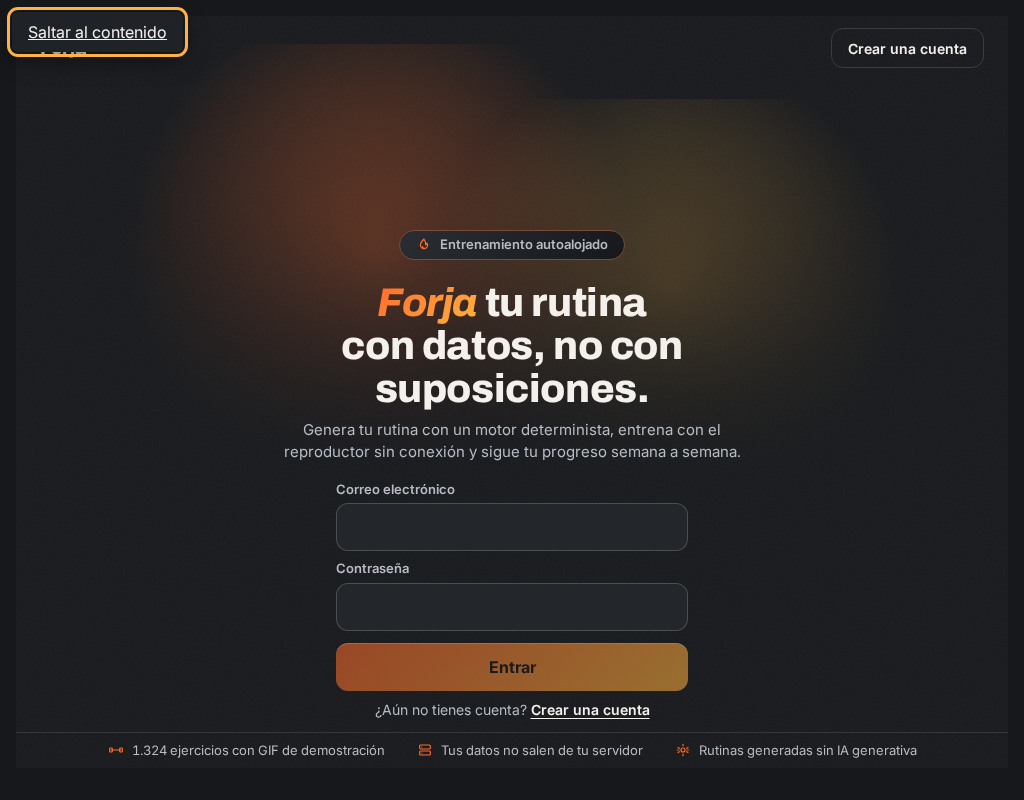
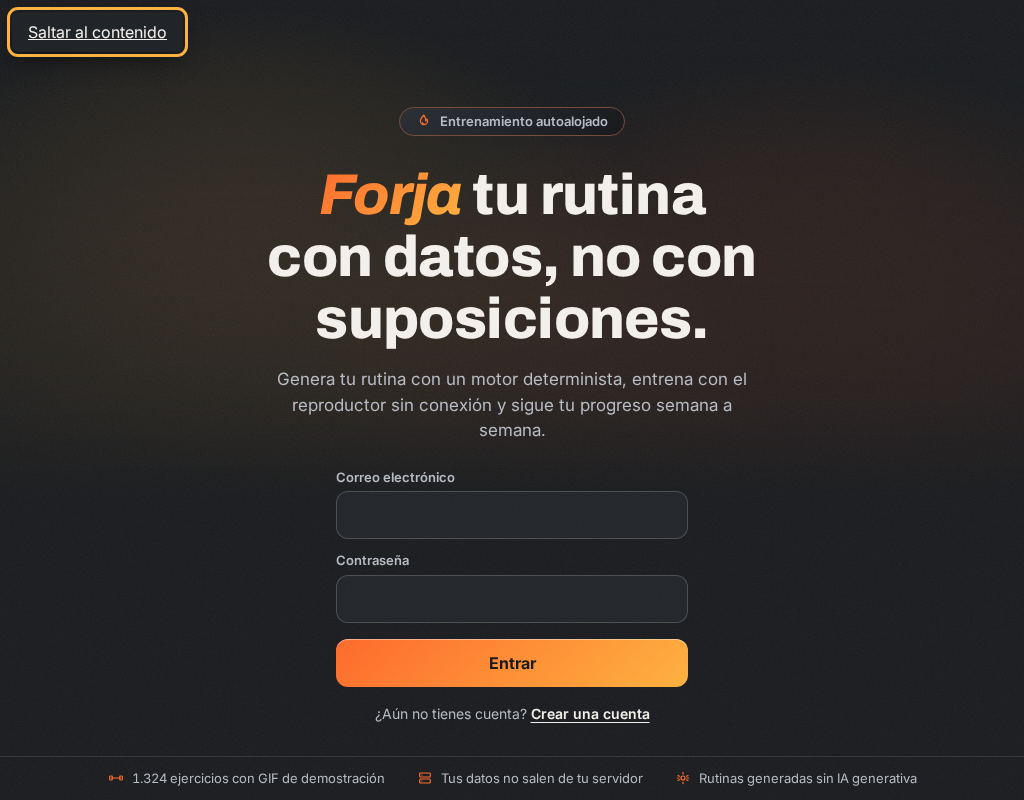
docs(auth): refresh login screenshots and add f5-login-polish handoff
Replace docs/screenshots/f5/login/ with screenshots taken after the
glow/full-bleed/CTA fixes (1920x1080, 1440x900, 1280x720, 390x844,
skip-link keyboard-focus); drop the mid-animation shot, which never
proved the entrance choreography in headless Chromium (documented in
f5-login-landing.md) and is now redundant with the settled-state
shots. Add docs/handoffs/f5-login-polish.md and a TASKS.md row
(F5-FE-03) for this pass.

Claude-Session: https://claude.ai/code/session_016UkH81CUPtFeFobjAqoEnV

diff --git a/docs/handoffs/f5-login-polish.md b/docs/handoffs/f5-login-polish.md
@@ -1,0 +1,252 @@
+# Handoff — Fase 5 · frontend-ui (f5/login-polish)
+
+## Resumen
+El orquestador revisó `docs/screenshots/f5/login/login-1440x900.png`, `login-390x844.png` y
+`login-1280x720.png` (capturas de `f5-login-landing.md`) y encontró cuatro defectos en la landing
+de acceso (`LoginScreen.tsx`, única pantalla «momento cero» de esta app autoalojada). Los cuatro
+quedan corregidos:
+
+1. **Cortes rectos en el resplandor de fondo.** `.glow` pintaba un `radial-gradient(circle, …)`
+   sin sizing explícito (por tanto `farthest-corner`) dentro de un `background-size` **menor**
+   que su propio contenedor (62%/58%). En una caja no cuadrada y descentrada eso deja alfa > 0 en
+   algunas esquinas antes de llegar al borde de ese *tile*; justo donde el *tile* termina
+   (`background-repeat: no-repeat`) se veía un corte recto — y, al ser un porcentaje fijo, el
+   punto exacto donde ocurre depende de la proporción del viewport, así que aparecía en sitios
+   distintos según el tamaño. Solución: las tres capas de fondo (`.glow`/`.scrim`/`.grain`) pasan
+   a `position: fixed; inset: 0` (cubren el viewport completo, no la caja de `.hero`) y el
+   resplandor usa un `background-size` **mayor** que el propio viewport (180%/168%) — así, en
+   cualquier punto de la deriva (`background-position`), la imagen sobresale del viewport por los
+   cuatro lados y el borde de su propio degradado queda siempre fuera de la pantalla, sea cual sea
+   el tamaño o la proporción del viewport (no depende de una cifra ajustada a un solo tamaño).
+2. **La landing quedaba encajonada.** Se renderizaba dentro de `.main` (`RootLayout.module.css`):
+   padding + `max-width: 72rem` pensados para convivir con `AppNav`, que `/login` nunca monta. El
+   agente anterior lo sabía (lo documentó en `f5-login-landing.md`) pero no podía tocar
+   `RootLayout` (fuera de su zona); compensaba con hacks en `LoginScreen.module.css` (`margin-left`
+   negativo + `min-height: calc(100dvh - …)` con dos cortes distintos a cada lado de 1024px). Esta
+   tarea sí puede tocar `RootLayout`: ahora es consciente de la ruta (`isFullBleedPath`) y `/login`
+   recibe un contenedor sin padding/ancho máximo — los hacks de compensación en `LoginScreen`
+   desaparecen porque ya no hay nada que cancelar.
+3. **«Entrar» parecía muerto al llegar.** `disabled={busy || email === "" || password === ""}` +
+   `.submit:disabled { opacity: 0.55 }` apagaban el degradado brasa del CTA principal de la
+   landing nada más cargar (campos siempre vacíos en la primera visita). Ahora el botón solo se
+   deshabilita mientras `busy` (el `required` nativo de los campos + los mensajes de error ya
+   existentes cubren el envío con campos vacíos, como pedía el encargo) y, mientras se envía,
+   cambia de texto (`auth.submitting`, «Entrando…»/«Signing in…», ya existía en `strings.ts`) en
+   vez de atenuar el degradado — el estado deshabilitado pasa a una superficie plana neutra
+   (`--color-surface-2` + texto apagado, sin degradado ni `opacity`).
+4. **«Crear una cuenta» aparecía dos veces en el mismo viewport.** Enlace fantasma en la barra
+   superior + enlace bajo el formulario. Se retira el de la barra superior (que ahora solo lleva
+   la marca «Forja») y se mantiene el inline — ver «Decisiones» por qué.
+
+## Ficheros tocados
+- `frontend/src/features/auth/LoginScreen.tsx` — quita el `<Link>` «Crear una cuenta» de
+  `.topbar` (solo queda el `<p className={styles.wordmark}>`); `disabled={busy}` en el botón de
+  envío (antes `busy || email === "" || password === ""}`). Ningún otro cambio de JSX.
+- `frontend/src/features/auth/LoginScreen.module.css` — reescrito el bloque de fondo (`.hero`,
+  `.glow`/`.scrim`/`.grain`, ver «Decisiones»); `.topbar` sin `justify-content: space-between`/
+  `gap` (un único hijo); `.ghostLink`/`.ghostLink:hover` eliminadas (ya no se usan);
+  `.submit:disabled` reescrita (superficie plana, sin `opacity`); la media query de escritorio
+  con poca altura pasa de dos cortes (901–1023px / ≥1024px) a uno solo (`min-width: 901px` +
+  `max-height: 780px`), ya innecesaria la asimetría porque `.main` ya no aporta padding a esta
+  ruta. El `@import` de la itálica y el resto de la pantalla (insignia, titular, campos,
+  estadísticas) no se han tocado.
+- `frontend/src/features/auth/session.ts` — añadido `FULL_BLEED_PATHS`/`isFullBleedPath`, mismo
+  patrón que `PUBLIC_PATHS`/`isPublicPath` ya existentes.
+- `frontend/src/routes/RootLayout.tsx` — `<main>` usa `styles.fullBleed` en vez de `styles.main`
+  cuando `isFullBleedPath(pathname)`; import de `isFullBleedPath` añadido. Resto sin cambios.
+- `frontend/src/routes/RootLayout.module.css` — nueva regla `.fullBleed` (`padding: 0; max-width:
+  none; margin-inline: 0`). `.main` no se toca (ninguna pantalla autenticada cambia).
+- `frontend/tests/routes/RootLayout.test.tsx` — nueva ruta `/login` en `buildRouter`; nuevo test
+  que confirma que `/login` usa `styles.fullBleed` (y no `styles.main`) y no monta `<AppNav>`;
+  assertion añadida al test existente de `/` confirmando que sigue usando `styles.main`.
+- `frontend/tests/features/loginLanding.test.tsx` — el test que exigía **dos** enlaces «Crear una
+  cuenta» ahora exige **uno solo** (el inline, con `href="/onboarding"`); nuevo test que confirma
+  que «Entrar» no está deshabilitado con los campos vacíos.
+- `docs/screenshots/f5/login/` — las cinco capturas sustituidas (mismo nombre de fichero:
+  `login-1920x1080.png`, `login-1440x900.png`, `login-1280x720.png`, `login-390x844.png`,
+  `login-1024-skiplink-focus.png`); `login-1440x900-mid-animation.png` eliminada (ya documentada
+  como no probatoria en `f5-login-landing.md` — Chromium headless sin compositor visible renderiza
+  el estado final, no una interpolación a medias).
+- `docs/TASKS.md` — fila `F5-FE-03` añadida en Fase 4 · Cierre, a continuación de `F5-FE-01`.
+- `docs/handoffs/f5-login-polish.md` — este documento.
+
+No se ha tocado `frontend/src/features/today/`, `frontend/src/features/shared/ui.module.css` ni
+`frontend/src/components/ui/ui.module.css` (zona del agente en paralelo). No se ha añadido ninguna
+dependencia npm ni ningún hex nuevo en `tokens.css` (se sigue usando solo `color-mix()` sobre
+tokens existentes, igual que en `f5-login-landing.md`).
+
+## Decisiones
+- **Capas de fondo a `position: fixed` con `background-size` mayor que el viewport, en vez de
+  ajustar el porcentaje de `transparent NN%` dentro de la caja pequeña.** Se consideró primero
+  solo bajar el *stop* del degradado (de `68%` a algo más conservador) manteniendo el `.glow`
+  acotado a la caja de `.hero`. Se descartó: la caja no es cuadrada y su proporción cambia con
+  cada viewport pedido (1920×1080, 1440×900, 1280×720, 390×844); un *stop* que deja alfa 0 en las
+  cuatro esquinas de una caja ancha (escritorio) puede no bastar para una caja estrecha y alta
+  (móvil), y el borde real de un `radial-gradient(circle, …)` no es solo las cuatro esquinas sino
+  todo el perímetro (el punto más cercano de un lado al centro puede estar más cerca que ambas
+  esquinas de ese lado). Ajustar un porcentaje fijo para que funcione en las cuatro proporciones
+  pedidas a la vez es fràgil y exactamente el tipo de ajuste que ya había fallado una vez. La
+  solución elegida es independiente de la proporción del viewport por construcción: con
+  `background-size` mayor que el 100% en ambos ejes (180%/168%) y el `background-position` de la
+  deriva siempre alejado de los extremos 0%/100% (14–21% y 80–88%, igual que antes), la imagen
+  sobresale del viewport por los cuatro lados en todo el rango de la animación — el borde del
+  propio degradado (donde antes se veía el corte) queda siempre fuera de la pantalla, sin
+  necesidad de calcular el *stop* exacto para cada proporción. Verificado visualmente en las
+  cuatro capturas pedidas (1920×1080, 1440×900, 1280×720, 390×844): sin ningún corte recto.
+  `.scrim` y `.grain` pasan al mismo esquema (`position: fixed; inset: 0`) por consistencia — no
+  tenían el problema del *tile* (`.scrim` ya pintaba a tamaño completo del contenedor; `.grain` es
+  un patrón repetido, sin borde propio) pero mezclar un esquema de posicionamiento por capa habría
+  sido más confuso que ganancia.
+- **`z-index` explícito y bajo en vez de depender del orden de pintado.** El agente anterior evitó
+  `position`/`opacity`/`filter`/`transform` en las capas de fondo precisamente para que
+  `position: static` las mantuviera detrás de cualquier elemento posicionado (el enlace «saltar al
+  contenido» de `RootLayout`, z-index 100 en `global.css`) sin tener que gestionar z-index. El
+  encargo de esta tarea autoriza explícitamente `position: fixed`/`absolute` con z-index bajo y
+  explícito, así que se usa ese camino: `.glow`/`.scrim`/`.grain` → `z-index: 0`; `.topbar`/
+  `.heroMid`/`.stats` (contenido) ya tenían `z-index: 1` de la versión anterior (no ha hecho falta
+  subirlo). Verificado con una captura de teclado (`login-1024-skiplink-focus.png`): el enlace
+  sigue perfectamente visible y por encima de las capas de fondo tras enfocarlo con Tab.
+- **`RootLayout` consciente de la ruta (`isFullBleedPath`) en vez de seguir compensando desde
+  `LoginScreen.module.css`.** Ahora que `RootLayout.tsx`/`.module.css` están dentro de la zona de
+  esta tarea, la corrección correcta es que el shell no le dé a `/login` un padding que de todas
+  formas no necesita (en vez de que `/login` cancele ese padding con matemática de `margin-left`
+  negativo atada a los mismos *breakpoints* que `.main`, que era lo único posible en la tarea
+  anterior). Con `.fullBleed` (`padding: 0; max-width: none; margin-inline: 0`) aplicado por
+  `RootLayout` cuando `isFullBleedPath(pathname)`, `.hero` en `LoginScreen.module.css` vuelve a
+  ser un simple `min-height: 100dvh` sin ningún cálculo — los hacks de la tarea anterior
+  desaparecen porque ya no hay nada que cancelar.
+- **`/onboarding` se queda con `.main` (no entra en `isFullBleedPath`).** El encargo decía
+  «`/onboarding` solo si queda bien». Se miró `OnboardingScreen.tsx`/`Onboarding.module.css`: es
+  un asistente de formulario de 4 pasos con `.root { max-width: 40rem; margin: 0 auto; }` que
+  reutiliza `Button`/`TextField`/`Chip`/`ChoiceCard` de `components/ui` — depende del padding de
+  `.main` para su respiro (arriba, a los lados y para el rail de escritorio); no es un hero de un
+  único viewport como `/login`. Quitarle ese padding dejaría el contenido pegado a los bordes del
+  viewport sin ganar nada (no es una pantalla de «un solo golpe de vista» como la landing). Por
+  eso `FULL_BLEED_PATHS = ["/login"]` (subconjunto de `PUBLIC_PATHS`, que sigue incluyendo
+  `/onboarding` para `AppNav`/`AuthGate`) y `.main` no cambia en absoluto.
+- **Único disparador de `:disabled` = `busy`; sin nuevo copy.** `auth.submitting` («Entrando…»/
+  «Signing in…») ya existía en `strings.ts` y ya estaba cableado en el JSX
+  (`{busy ? t("auth.submitting") : t("auth.submit")}`) desde `f5-login-landing.md` — no hacía
+  falta ninguna clave nueva, solo quitar la condición de campos vacíos del `disabled` y reescribir
+  `.submit:disabled` (superficie plana `--color-surface-2` + `--color-text-muted`, sin `opacity`
+  ni degradado, `cursor: progress`). El formulario ya tiene `required` nativo en ambos campos
+  (`GlassField`) y el `submit` del navegador no dispara con campos vacíos/no válidos antes de que
+  `onSubmit` (y por tanto `submit()`) se ejecute — `event.preventDefault()` dentro del handler solo
+  evita la navegación por defecto, no salta la validación nativa, que ocurre antes de que el
+  evento `submit` llegue a dispararse. El envío con campos vacíos sigue, por tanto, sin poder
+  llegar nunca a `POST /auth/login`.
+- **Se mantiene el enlace inline, se retira el de la barra superior.** El inline
+  («¿Aún no tienes cuenta? Crear una cuenta», bajo el formulario) es el que responde al momento
+  exacto en que alguien se hace esa pregunta — después de ver el formulario, no antes — sin que la
+  mirada tenga que saltar a la esquina superior. Con él fuera, la barra superior queda solo con la
+  marca «Forja», más silenciosa (un único acento deliberado, coherente con el principio ya fijado
+  en `f5-login-landing.md` de que esta pantalla tiene «un único momento de entrada»). Se ha
+  simplificado `.topbar` en consecuencia (sin `justify-content: space-between`/`gap`, que solo
+  tenían sentido con dos hijos) y se ha borrado `.ghostLink`/`.ghostLink:hover` (CSS muerto).
+- **Corte único en la media query de poca altura, retunado a `max-height: 780px`.** La versión
+  anterior tenía dos cortes (`920px` entre 901–1023px de ancho, `860px` desde 1024px) porque
+  `.main` reservaba un padding vertical distinto a cada lado de esa frontera (112px / 48px). Esa
+  asimetría ya no existe para esta ruta (padding 0 a cualquier ancho), así que un único corte
+  basta; el número (`780px`) se ha verificado con las propias capturas pedidas: a 1280×720 se
+  compacta y cabe sin *scroll* (visible en `login-1280x720.png`), a 1440×900 no se compacta y se
+  ve idéntica a antes. No se ha repetido el barrido de más de diez combinaciones ancho×alto que
+  hizo el agente anterior — ver «Riesgos».
+- **Metodología de capturas: `VITE_USE_MSW=1` (pedido por el encargo) + contexto de Playwright con
+  `serviceWorkers: "block"` para `/login`.** El mock por defecto de `GET /auth/me`
+  (`src/mocks/handlers.generated.ts`) autentica (usuaria «Lucía», `onboarding_completed: true`).
+  `AuthGate` renderiza `LoginScreen` de inmediato para cualquier ruta pública (antes de que la
+  sesión resuelva), pero en cuanto `GET /auth/me` resuelve con éxito, `redirectTarget("/login",
+  sesiónOk)` devuelve `"/"` y un `useEffect` dispara la navegación — con MSW activo de verdad
+  habría una carrera contra ese redirect. En vez de repetir la solución de `f5-login-landing.md`
+  (`VITE_USE_MSW` desactivado del todo + `page.route()` sirviendo un 401), que ya no encajaba con
+  el `VITE_USE_MSW=1` explícito de este encargo, se ha abierto el contexto de Playwright para
+  `/login` con `serviceWorkers: "block"`: sin el *service worker* de MSW, `GET /auth/me` llega de
+  verdad al proxy de Vite hacia un backend que no existe en este entorno, falla con un error
+  genérico (no `UnauthenticatedError`) y `redirectTarget` devuelve `null` para cualquier error en
+  una ruta pública — `AuthGate` nunca redirige y `/login` se queda quieta para la captura, sin
+  ninguna carrera. La captura de «Hoy» (prueba de que el shell autenticado no cambia) se ha hecho
+  en un contexto Playwright normal (sin bloquear *service workers*), donde MSW sí responde con
+  datos realistas. El servidor sigue arrancando con `VITE_USE_MSW=1` en ambos casos, tal y como
+  pedía el encargo — lo que cambia es si el *navegador* (el contexto de Playwright) deja que su
+  *service worker* se registre, no la variable de entorno del servidor.
+- **La captura de «Hoy» no se ha versionado.** El encargo pide tomarla y mirarla («para probar que
+  el shell autenticado no cambia»), pero solo pide sustituir el contenido de
+  `docs/screenshots/f5/login/` con las capturas de login — «Hoy» no es una captura de login. Se ha
+  usado como verificación (revisada con la herramienta `Read`, ver más abajo) y luego descartada
+  junto con el resto de ficheros temporales, en vez de añadir un fichero nuevo a un directorio que
+  el encargo no menciona.
+
+## Cómo verificar
+```bash
+cd frontend
+npm ci                                    # este worktree no traía node_modules
+./node_modules/.bin/tsc --noEmit -p tsconfig.json
+./node_modules/.bin/tsc --noEmit -p tsconfig.node.json   # ambos limpios
+./node_modules/.bin/eslint . --max-warnings 0            # 0 avisos
+./node_modules/.bin/vitest run --coverage                # 210/210, ramas 85.27 %
+npm run build                                             # index-*.js: 189.92 kB gzip
+```
+Visual (Playwright, `VITE_USE_MSW=1`, ver «Decisiones» sobre el contexto sin *service worker*
+para `/login`):
+```bash
+cd frontend
+VITE_USE_MSW=1 ./node_modules/.bin/vite --host 127.0.0.1 --port 5177
+# en otra sesión: script Playwright (borrado tras usarlo, ver «Ficheros tocados») que abre
+# 127.0.0.1:5177/login en un contexto con serviceWorkers:"block" a 1920×1080/1440×900/1280×720/
+# 390×844 (~2.7s de espera tras el <h1> para que la coreografía de Framer Motion se asiente del
+# todo, evitando repetir la captura "a mitad de animación" ya descartada) + una quinta a 1024×800
+# con Tab pulsado para el foco del skip-link; y 127.0.0.1:5177/ en un contexto normal a 1440×900.
+```
+Las cinco capturas de `/login` se revisaron con la herramienta `Read` (zoom mental en los bordes
+del resplandor en las cuatro esquinas y en el punto medio de cada lado): ningún corte recto en
+ningún tamaño. `login-1024-skiplink-focus.png` confirma el enlace «Saltar al contenido» visible y
+por encima del fondo tras Tab. La captura de «Hoy» a 1440×900 confirma nav lateral + tarjetas con
+el padding/ancho habituales del shell, sin ningún cambio visible.
+
+## Métricas
+- `npm run build`: `index-*.js` (chunk principal, eager) → 586.20 kB sin comprimir / **189.92 kB
+  gzip** (antes 189.33 kB gzip en `f5-login-landing.md`; +0.59 kB gzip — `isFullBleedPath` en
+  `session.ts` y la nueva rama en `RootLayout.tsx` son eager, `LoginScreen` sigue sin serlo).
+  Presupuesto `< 500 KB gzip` (ADR 0013): **310.08 KB de margen**.
+  `LoginScreen-*.js` (chunk propio, perezoso): 4.50 kB / **1.71 kB gzip** (antes 4.64 kB / 1.74 kB
+  — más pequeño: se ha quitado un `<Link>`).
+  `LoginScreen-*.css` (chunk propio, perezoso): 7.80 kB / **2.39 kB gzip** (antes 8.59 kB / 2.56 kB
+  — más pequeño: se han quitado `.ghostLink`/`.ghostLink:hover` y un corte de la media query).
+- `./node_modules/.bin/vitest run --coverage`: **210/210** tests en verde, 30/30 ficheros (205
+  anteriores + 5 nuevos/editados: 2 en `RootLayout.test.tsx`, 2 en `loginLanding.test.tsx` con una
+  reescrita en vez de sumar, y ningún test roto en el resto de la suite).
+- Cobertura de ramas global: **85.27 %** (por encima del umbral del 85 %; subió desde el 85.12 %
+  de `f5-login-landing.md`).
+
+## Riesgos/pendientes
+- **El nuevo corte único de la media query de poca altura (`max-height: 780px`) se ha verificado
+  solo en los tamaños que pide este encargo** (1280×720 compactado y sin *scroll*; 1440×900 sin
+  compactar), no con el barrido de más de diez combinaciones ancho×alto que hizo el agente
+  anterior alrededor de los dos cortes antiguos. Como esta ruta ya no lleva el padding vertical de
+  `.main` (48–112px recuperados a cualquier ancho ≥ 901px), el margen solo puede haber mejorado
+  respecto a antes, pero no se ha re-verificado el caso límite ya documentado en
+  `f5-login-landing.md` (901×700, que desbordaba 14px) — con más margen disponible ahora, es
+  probable que ya quepa, pero no se ha comprobado.
+- **Tema claro (`data-theme="light"`) sigue sin capturarse**, igual que en `f5-login-landing.md` —
+  no es parte de los defectos reportados por el orquestador ni de los tamaños pedidos en este
+  encargo. Por construcción (todo vía tokens salvo `--color-accent`/`--color-accent-2`, que no
+  cambian de tema) debería seguir viéndose coherente, pero sigue sin comprobación visual.
+- **La coreografía de entrada (delays/duration de Framer Motion) no se ha tocado** y sigue sin
+  poder demostrarse con una captura de Chromium headless (mismo motivo técnico que
+  `f5-login-landing.md`: sin compositor visible, la primera pintura ya muestra el estado final).
+  Las capturas de esta tarea se toman ~2.7s después de que aparece el `<h1>`, tiempo de sobra para
+  que toda la coreografía haya terminado (última entrada a los 1.44 s + 1.05 s de duración) — es
+  intencional, para evitar repetir el error de la captura «a mitad de animación» que se ha
+  borrado, no una demostración de la coreografía en sí.
+
+## Peticiones a otros agentes
+Ninguna petición bloqueante.
+- El agente en paralelo en `frontend/src/features/today/`, `frontend/src/features/shared/
+  ui.module.css` y `frontend/src/components/ui/ui.module.css` no necesita coordinar nada: esta
+  tarea no ha tocado ninguno de esos ficheros (confirmado con la captura de «Hoy», que muestra el
+  shell autenticado sin cambios).
+- `RootLayout.tsx`/`RootLayout.module.css` quedan con una nueva rama de comportamiento
+  (`isFullBleedPath`) — cualquier agente futuro que añada una ruta pública nueva y quiera que
+  también ocupe el viewport completo solo necesita añadirla a `FULL_BLEED_PATHS` en
+  `features/auth/session.ts`; si en cambio necesita el padding normal del shell (como
+  `/onboarding` hoy), no necesita tocar nada.

diff --git a/docs/TASKS.md b/docs/TASKS.md
@@ -227,6 +227,7 @@
 | F4-FE-01 | frontend-ui | Pulido visual: CTA primaria con degradado brasa en cada pantalla, iconos en `AppNav` y cabeceras de tarjeta, más respiro y estados vacíos intencionados | `docs/handoffs/f4-visual-polish.md`; lint/tsc/build en verde; tests 196/196 (cobertura de ramas global sigue por debajo del umbral, preexistente — ver handoff) | Fase 2 | hecha (rama `f4/visual-polish`, sin fusionar) |
 | F4-FE-02 | frontend-ui | Framer Motion: píldora activa de `AppNav` con `layoutId`, crossfade de ruta, anillo de descanso con pulso brasa en los últimos 5 s, confeti discreto de récord personal; reagrupar `AppNav` en «Entrenar»/«Cuenta» | `docs/handoffs/f4-motion-nav.md`; lint/tsc/build en verde; tests 201/201 (cobertura de ramas global vuelve a superar el umbral: 85.03 %) | F4-FE-01 | hecha (rama `f4/motion-nav`, sin fusionar) |
 | F5-FE-01 | frontend-ui | `LoginScreen` como landing de Forja (único «momento cero» de una app autoalojada y auto-gated): insignia, titular en dos líneas con acento brasa+itálica en «Forja», bajada, formulario con vidrio esmerilado integrado en el hero, pie de tres estadísticas reales, fondo de brasa ambiental CSS-only + grano SVG, coreografía de entrada con Framer Motion; viewport único sin scroll en escritorio (incl. alturas cortas como 1280×720), apilado con scroll en móvil | `docs/handoffs/f5-login-landing.md` con capturas en `docs/screenshots/f5/login/`; lint/tsc/build en verde; tests 205/205 (cobertura de ramas global: 85.12 %); bundle inicial 189.33 kB gzip (< 500 KB, ADR 0013) | F4-FE-01 | hecha (rama `f5/login-landing`, sin fusionar) |
+| F5-FE-03 | frontend-ui | Pulido de la landing de acceso tras revisión de capturas por el orquestador: fondo de brasa a pantalla completa sin cortes rectos (capas `position: fixed` sobre-dimensionadas en vez de *grid items* recortados), `/login` a pantalla completa (fuera del `.main` con padding del shell, ruta consciente vía `isFullBleedPath`), CTA «Entrar» ya no se deshabilita ni se apaga con los campos vacíos (solo mientras `busy`, con superficie plana neutra en vez de degradado atenuado), un único enlace «Crear una cuenta» (se retira el de la barra superior) | `docs/handoffs/f5-login-polish.md` con capturas renovadas en `docs/screenshots/f5/login/`; lint/tsc/test/build en verde; tests 210/210 (cobertura de ramas global: 85.27 %); bundle inicial 189.92 kB gzip (< 500 KB, ADR 0013) | F5-FE-01 | hecha (rama `f5/login-polish`, sin fusionar) |
 | F4-QA-01 | qa-tests | Auditoría de §15 punto por punto | `docs/DOD_REPORT.md` con evidencia; lo que falle, tarea nueva aquí | Fase 3 | pendiente |
 | F4-ORQ-01 | orquestador | `CHANGELOG.md` y `docs/USER_GUIDE.md` (ES, con capturas) | Revisados | F4-QA-01 | pendiente |
 | F4-ORQ-02 | orquestador | README definitivo y tag `v1.0.0` | Tag creado sobre `main` verde | F4-ORQ-01 | pendiente |
